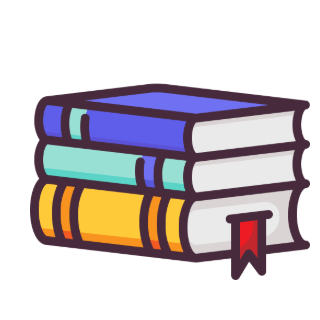
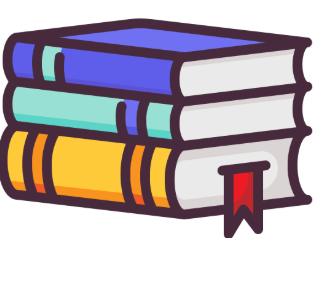
update code

diff --git a/resources/views/student/home.blade.php b/resources/views/student/home.blade.php
@@ -319,7 +319,7 @@
                         <a href="/student_eval" class="text-decoration-none">
                             <div class="card bg-mbg justify-content-center align-items-center" style="height: 210px;">
                                 <div class="card-body micon">
-                                    <img src="/studentEvaluation.png" class="mimage" alt="Post Evaluation Icon"
+                                    <img src="/studentEvaluation2.png" class="mimage" alt="Post Evaluation Icon"
                                         style="margin-left: -20px;height: 180px; width: 180px">
                                 </div>
                             </div>

diff --git a/resources/views/teacher/home.blade.php b/resources/views/teacher/home.blade.php
@@ -316,7 +316,7 @@
                                 <div class="card-body micon">
                                     <img src="/img/book.png" class="mimage" alt="Upload Story Book Icon"
                                         style="margin-left: -20px;">
-                                    <p>Upload Story Book</p>
+                                    <p>Upload Story Book or Video</p>
                                 </div>
                             </div>
                         </a>
